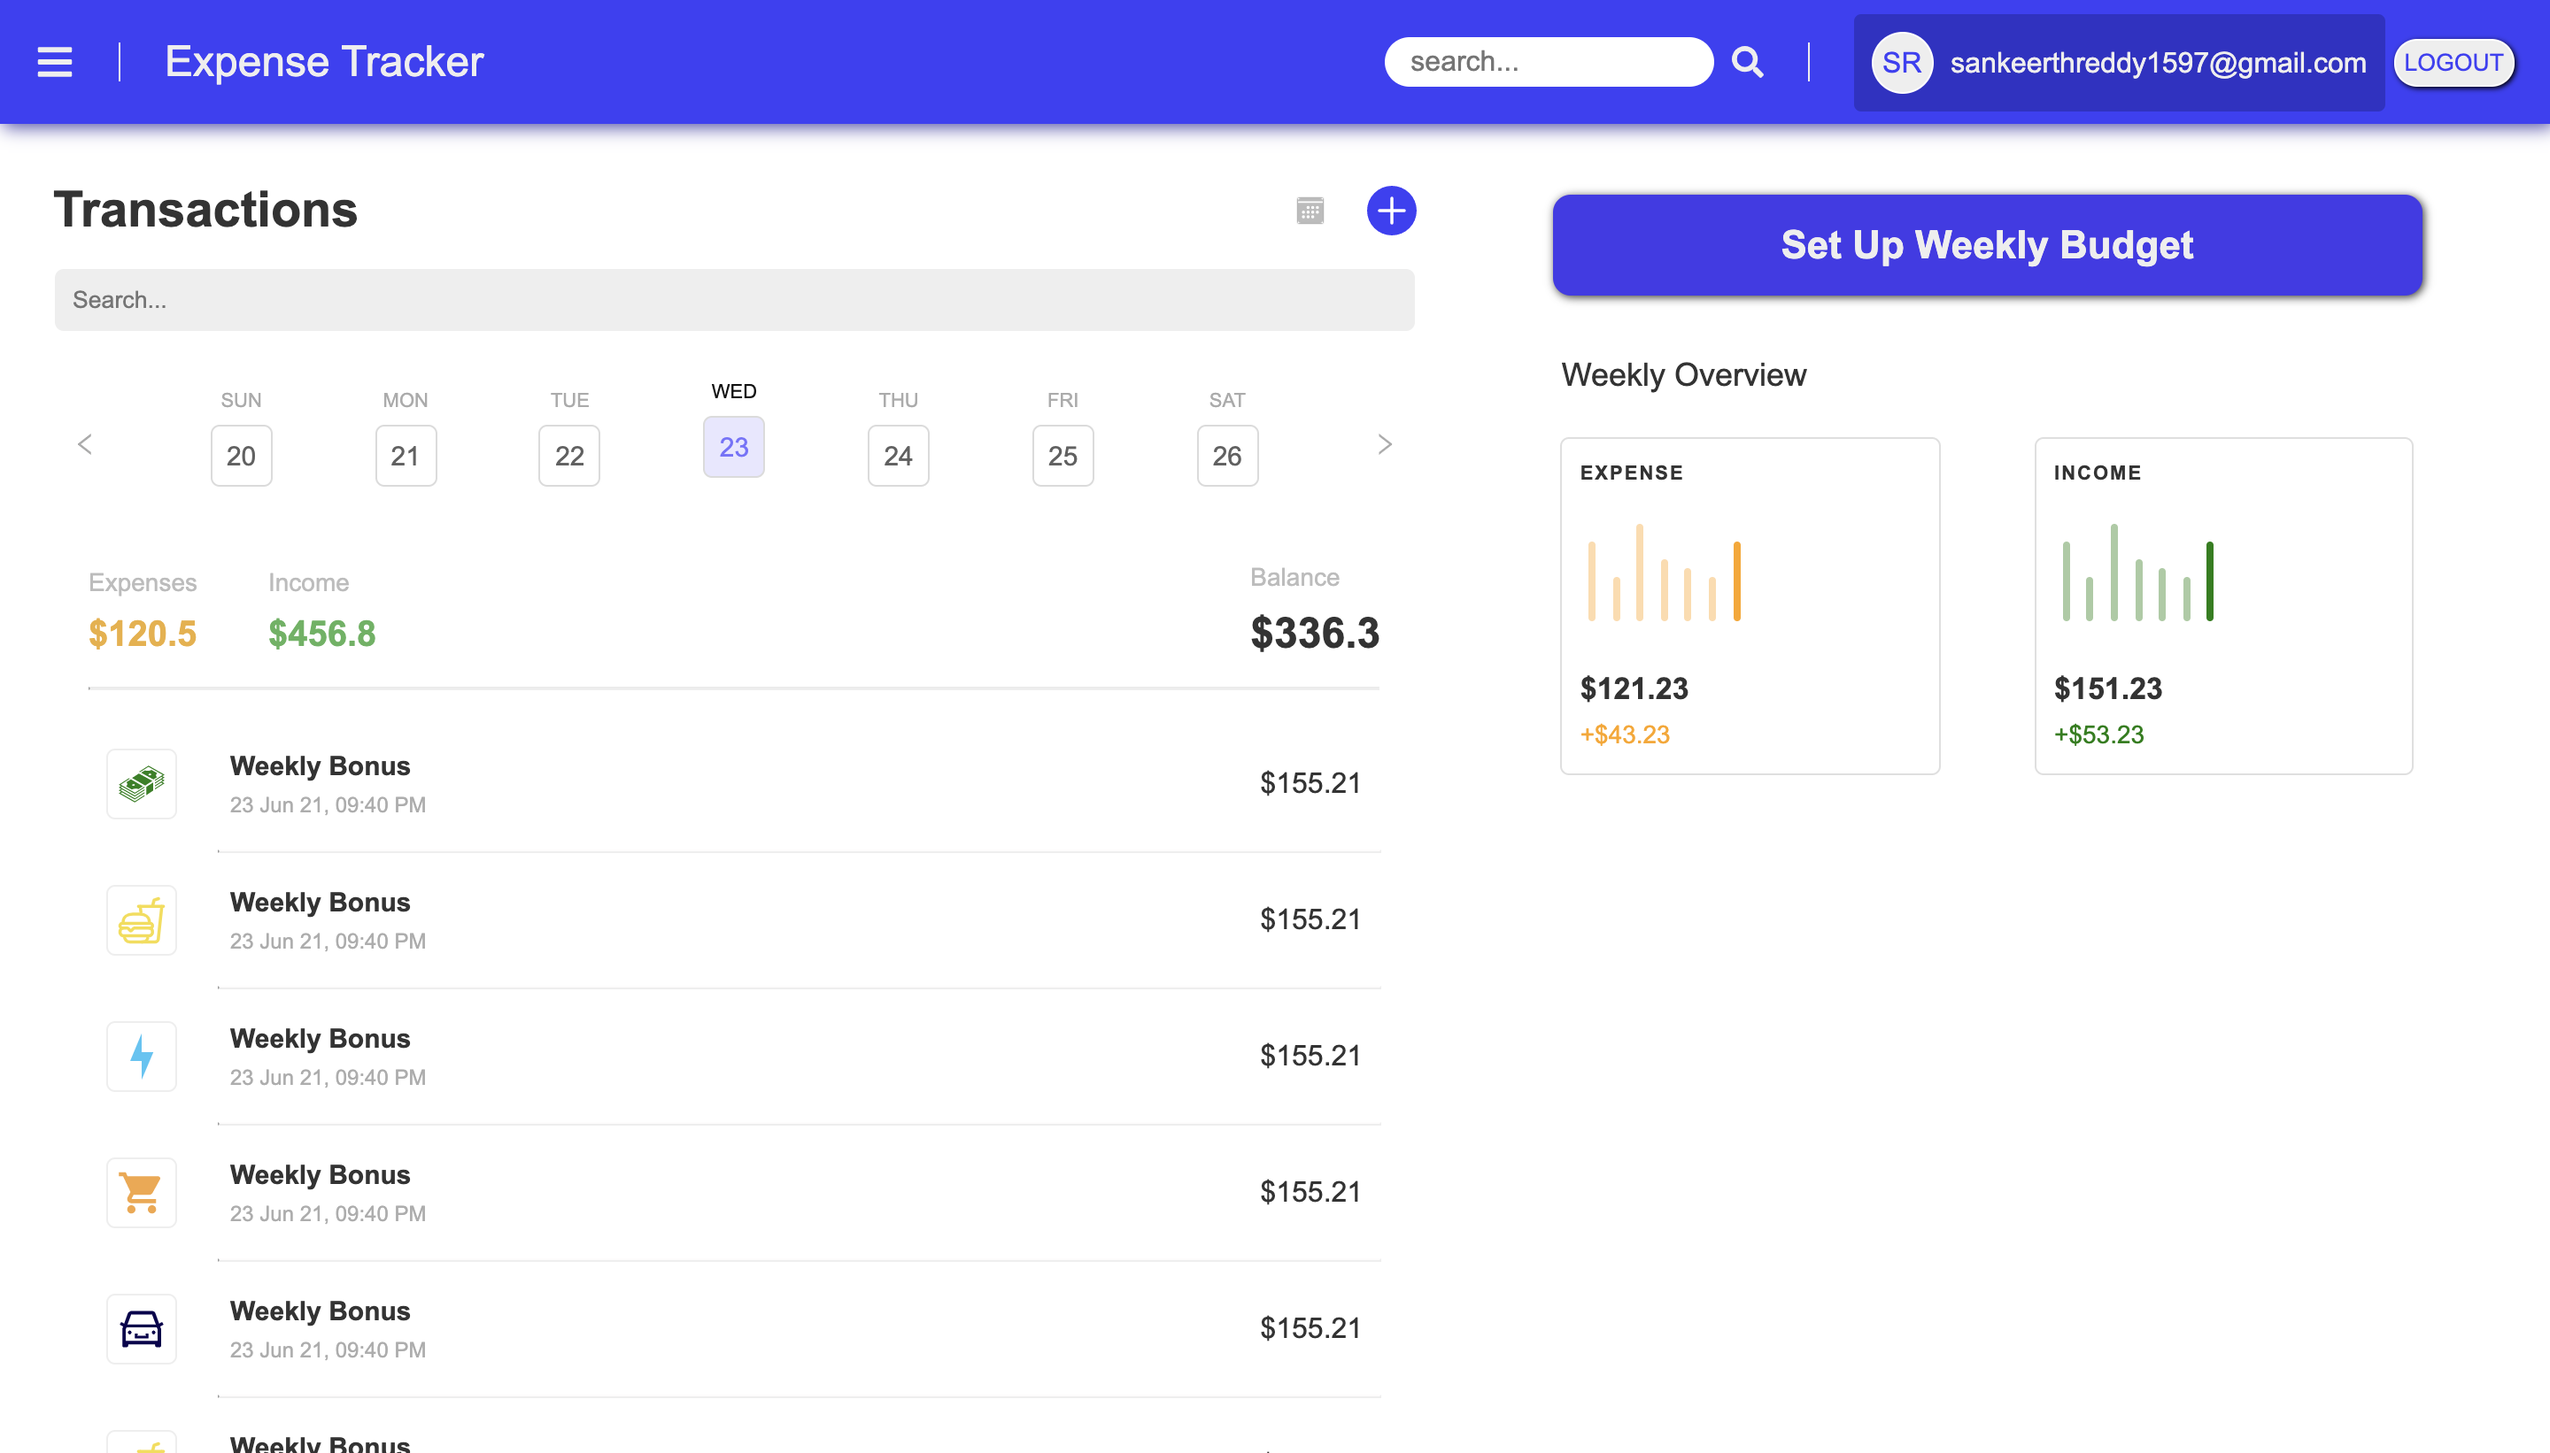
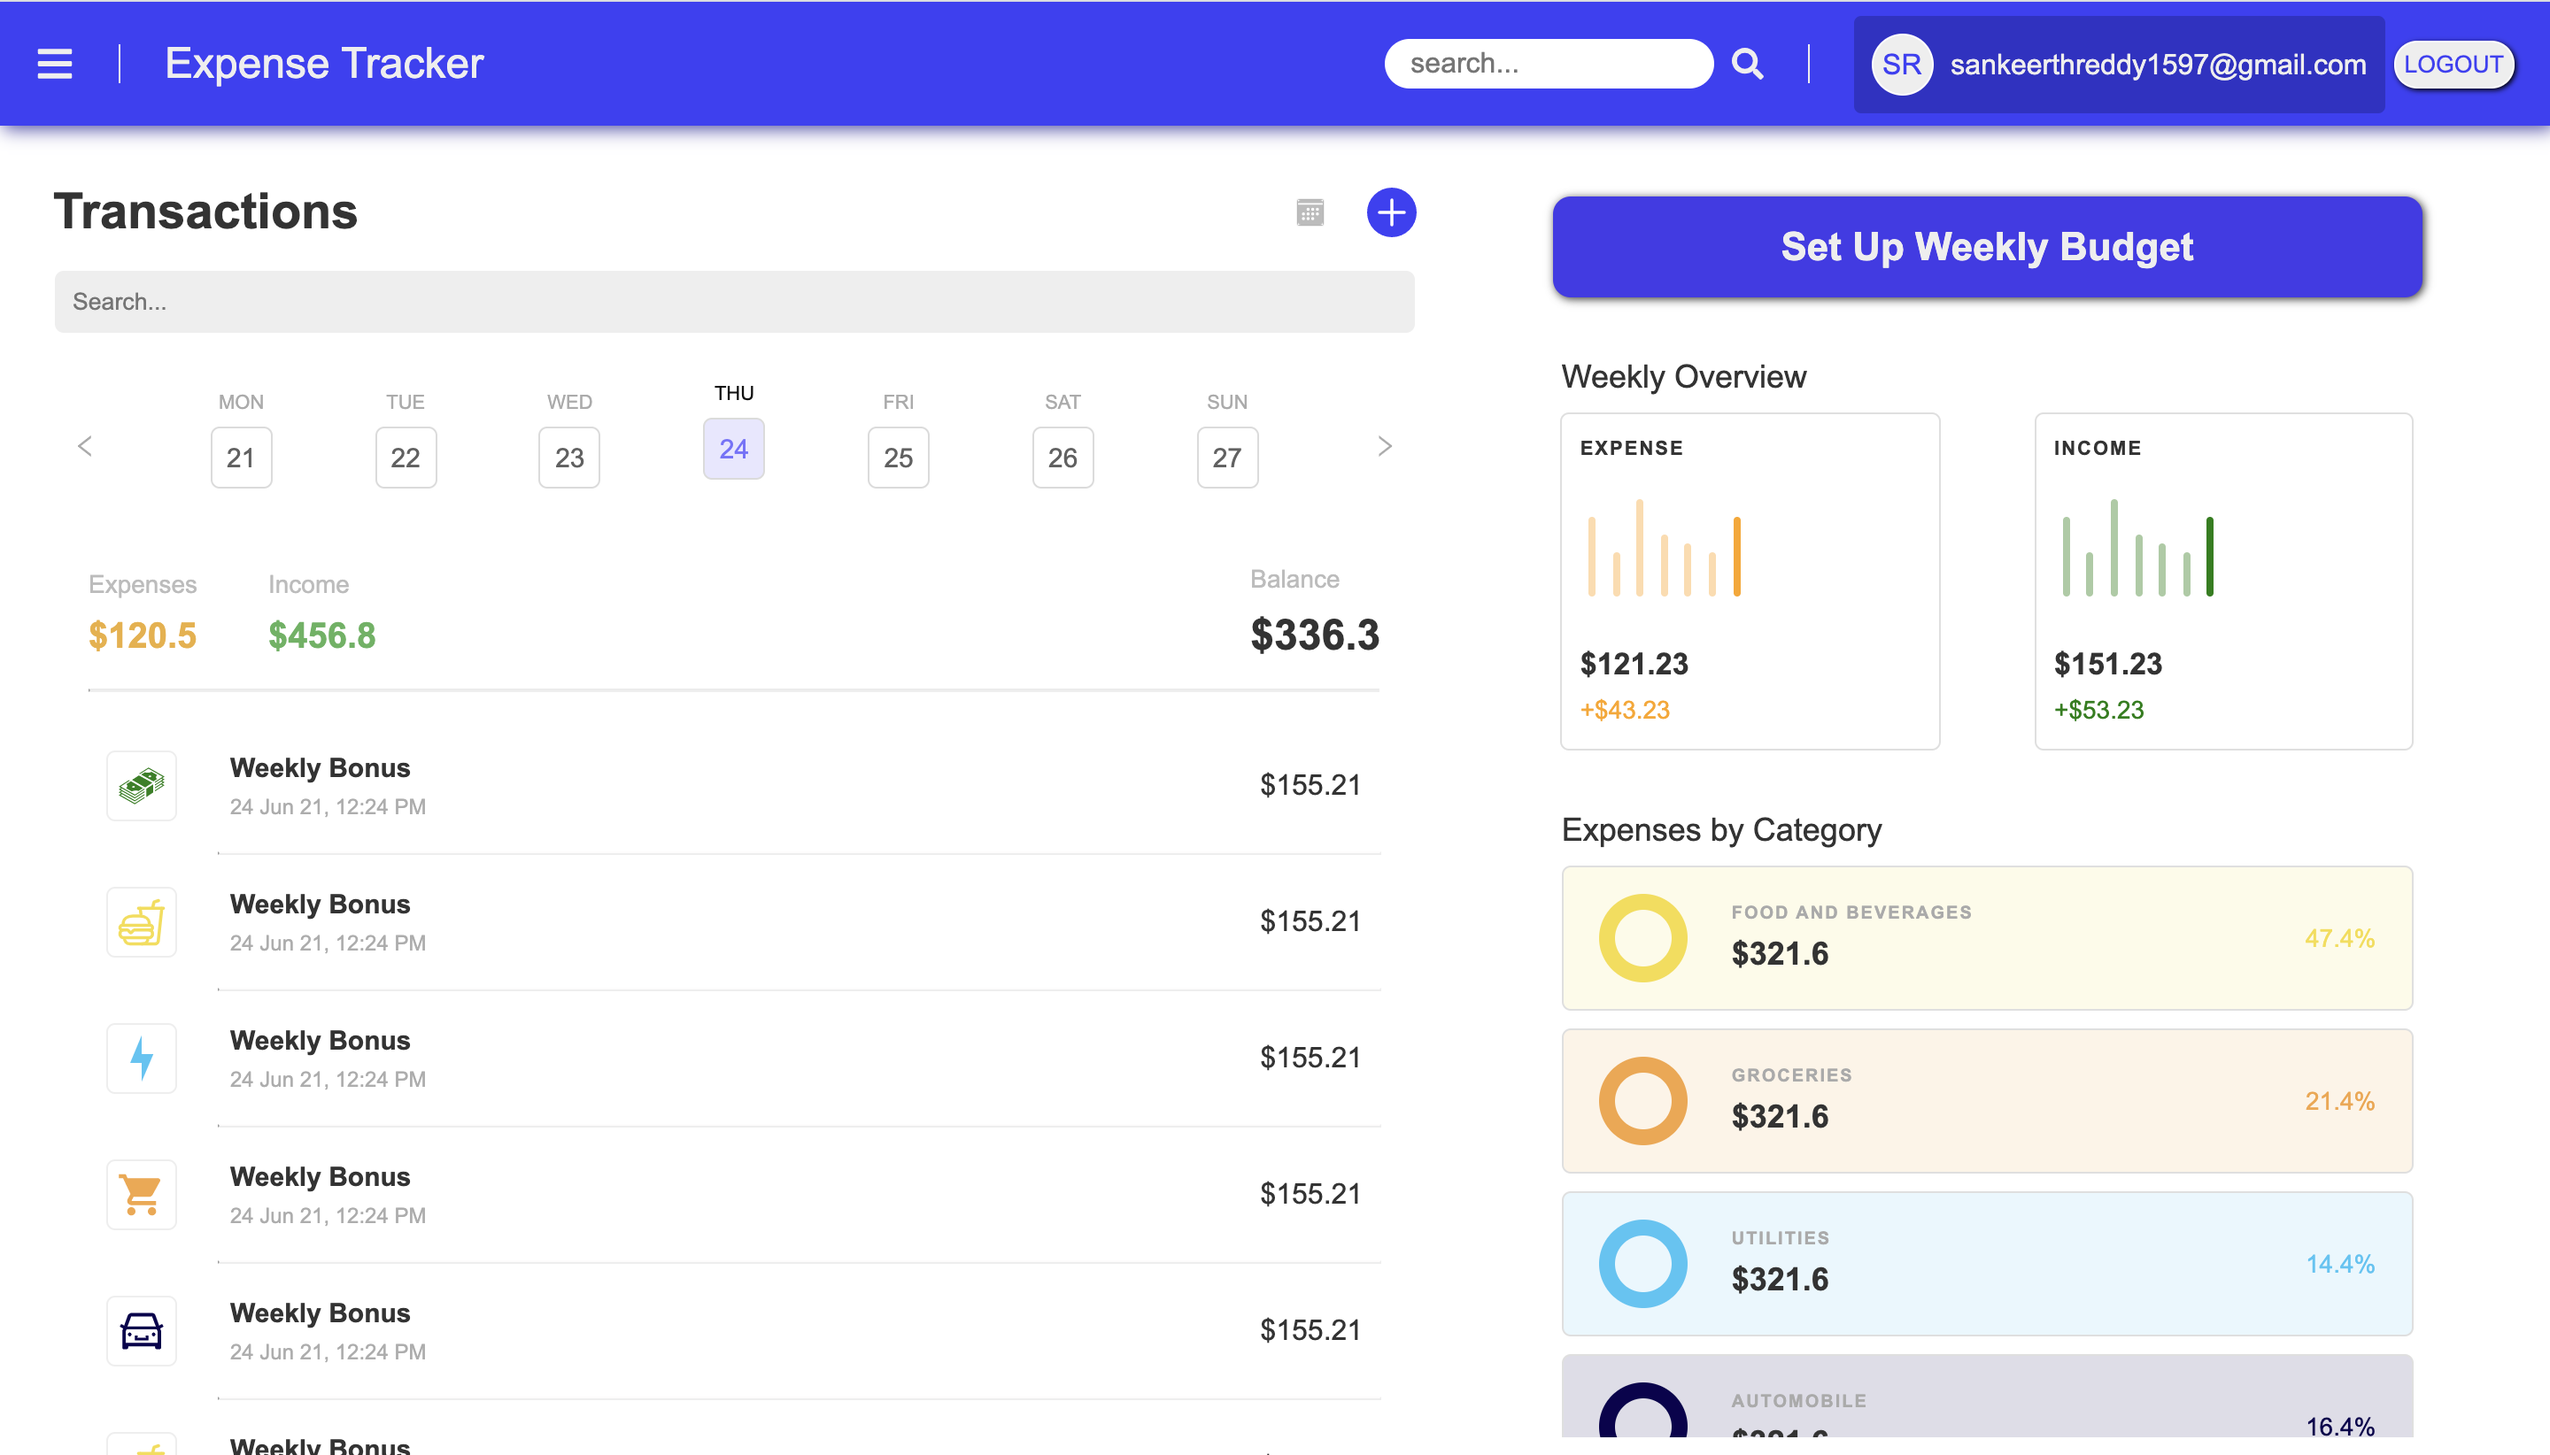
Expenes By Category section and UI Readme update

diff --git a/client/src/components/CategoryList/CategoryItem/CategoryItem.js b/client/src/components/CategoryList/CategoryItem/CategoryItem.js
@@ -1,0 +1,54 @@
+import React from "react";
+import "./CategoryItem.css";
+
+const CategoryItem = ({ title, amount, percent }) => {
+  const categoryColorMap = {
+    foodAndBeverages: "#F5DD4122",
+    groceries: "#F6A64222",
+    utilities: "#43C5F522",
+    automobile: "#0D004E22",
+  };
+
+  const barColorMap = {
+    foodAndBeverages: "9px solid #F5DD41",
+    groceries: "9px solid #F6A642",
+    utilities: "9px solid #43C5F5",
+    automobile: " 9px solid #0D004E",
+  };
+
+  const percentColorMap = {
+    foodAndBeverages: "#F5DD41",
+    groceries: "#F6A642",
+    utilities: "#43C5F5",
+    automobile: " #0D004E",
+  };
+  return (
+    <div
+      className="category-body"
+      style={{
+        backgroundColor: `${categoryColorMap[title.replace(/\s+/g, "")]}`,
+      }}
+    >
+      <div className="catLeft">
+        <div
+          className="progressSpinner"
+          style={{ border: `${barColorMap[title.replace(/\s+/g, "")]}` }}
+        ></div>
+        <div className="expenseSection">
+          <p className="cat__title">{title}</p>
+          <p className="cat__amount">${amount}</p>
+        </div>
+      </div>
+      <div className="catRight">
+        <p
+          className="cat__percent"
+          style={{ color: `${percentColorMap[title.replace(/\s+/g, "")]}` }}
+        >
+          {percent}%
+        </p>
+      </div>
+    </div>
+  );
+};
+
+export default CategoryItem;

diff --git a/client/src/screens/HomeScreen/HomeScreen.js b/client/src/screens/HomeScreen/HomeScreen.js
@@ -5,6 +5,7 @@ import CustomDatePicker from "../../components/CustomDatePicker/CustomDatePicker
 import BalanceSummary from "../../components/BalanceSummary/BalanceSummary";
 import TransactionList from "../../components/TransactionList/TransactionList";
 import OverviewCard from "../../components/OverviewCard/OverviewCard";
+import CategoryList from "../../components/CategoryList/CategoryList";
 
 const HomeScreen = () => {
   return (
@@ -56,6 +57,12 @@ const HomeScreen = () => {
               <OverviewCard title="Expense" amount="121.23" change="43.23" />
               <OverviewCard title="Income" amount="151.23" change="53.23" />
             </div>
+          </div>
+          <div className="innerRowSmall">
+            <p className="categoryOverview">Expenses by Category</p>
+          </div>
+          <div className="innerRowSmall">
+            <CategoryList />
           </div>
         </div>
       </div>

diff --git a/client/src/components/CategoryList/CategoryItem/CategoryItem.css b/client/src/components/CategoryList/CategoryItem/CategoryItem.css
@@ -1,0 +1,42 @@
+.category-body {
+  margin-bottom: 10px;
+  padding: 15px 20px;
+  width: 100%;
+  display: flex;
+  align-items: center;
+  justify-content: space-between;
+  border: 1px solid #dfdfdf;
+  border-radius: 5px;
+  /* background-color: rgba(255, 155, 0, 0.05); */
+}
+
+.catLeft {
+  display: flex;
+  align-items: center;
+}
+
+.progressSpinner {
+  margin-right: 25px;
+  height: 50px;
+  width: 50px;
+  border: 9px solid orange;
+  border-radius: 50%;
+}
+
+.cat__title {
+  font-size: 10px;
+  text-transform: uppercase;
+  font-weight: 600;
+  color: rgb(170, 170, 170);
+  letter-spacing: 1px;
+}
+
+.cat__amount {
+  font-size: 18px;
+  font-weight: bold;
+}
+
+.cat__percent {
+  font-size: 14px;
+  color: orange;
+}

diff --git a/client/src/components/CategoryList/CategoryList.js b/client/src/components/CategoryList/CategoryList.js
@@ -1,0 +1,16 @@
+import React from "react";
+import "./CategoryList.css";
+import CategoryItem from "./CategoryItem/CategoryItem";
+
+const CategoryList = () => {
+  return (
+    <div className="categoryWrapper">
+      <CategoryItem title="food And Beverages" amount="321.6" percent="47.4" />
+      <CategoryItem title="groceries" amount="321.6" percent="21.4" />
+      <CategoryItem title="utilities" amount="321.6" percent="14.4" />
+      <CategoryItem title="automobile" amount="321.6" percent="16.4" />
+    </div>
+  );
+};
+
+export default CategoryList;

diff --git a/client/src/screens/HomeScreen/HomeScreen.css b/client/src/screens/HomeScreen/HomeScreen.css
@@ -39,6 +39,15 @@
   margin: 10px auto;
 }
 
+.innerRowSmall:last-child {
+  overflow: auto;
+  margin-top: -15px;
+}
+
+.innerRowSmall:nth-child(3) {
+  margin-top: -5px;
+}
+
 .cardwrapper {
   margin-top: -10px;
   display: flex;
@@ -120,7 +129,8 @@
   opacity: 0.85;
 }
 
-.weeklyOverview {
+.weeklyOverview,
+.categoryOverview {
   margin: 10px 5%;
   padding: 0 5px;
   font-size: 18px;

diff --git a/client/src/components/CategoryList/CategoryList.css b/client/src/components/CategoryList/CategoryList.css
@@ -1,0 +1,7 @@
+.categoryWrapper {
+  margin: 0 5%;
+  padding: 0 5px;
+  margin-top: 0px;
+  width: 100%;
+  overflow: auto;
+}
